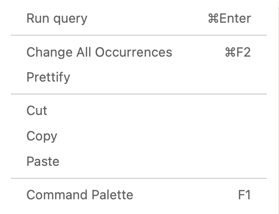
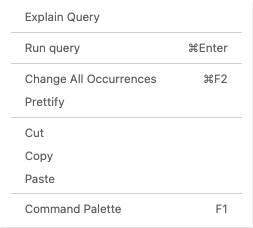
Deployed universe update

diff --git a/starburst-galaxy/working-with-data/query-data/run-queries.html b/starburst-galaxy/working-with-data/query-data/run-queries.html
@@ -1633,10 +1633,17 @@
     <p>The query editor offers a full environment to write and execute <a href="../../sql/index.html">SQL
 statements</a>. You can access all running clusters and their
 configured catalogs.</p>
+      <h2 id="edit-generate-and-explain-queries">
+        
+        
+          Edit, generate, and explain queries <a href="#edit-generate-and-explain-queries" class="titleAnchor">#</a>
+        
+        
+      </h2>
+    
 
-    <p>The query editor is the default landing page when you sign in to your
-Starburst Galaxy account. Access the query editor at any time by clicking
-<strong>Query editor</strong> from the <strong>Query</strong> option of the navigation menu.</p>
+    <p>Access the query editor by clicking <strong>Query editor</strong> from the <strong>Query</strong> option
+of the navigation menu.</p>
 
     <p>As an alternative, select <strong>Query</strong> from the <i class="fas fa-ellipsis-v"></i>
 options menu in the <a href="../../clusters/index.html#cluster-list">list of clusters</a>.</p>
@@ -1705,12 +1712,12 @@ applies to this option.</p>
 streams it in CSV format to a file in the current user’s default downloads
 directory. Use this option when you expect a large result set from a query.
 The amount of data that can be downloaded with this option is
-browser-dependent. Use a <a href="../../clients.html#list-of-clients">different client</a> to
-download very large result sets. The name of the results file is browser
-dependent. Chrome prompts for a filename; Firefox and Safari write to a file
-named <code class="language-plaintext highlighter-rouge">results.csv</code>, appending a digit or a timestamp if the target filename
-exists. While the download proceeds, a few rows of sample results appear in
-the results pane.</p>
+browser-dependent. Use a <a href="../../clients.html#list-of-clients">different
+client</a> to download very large result
+sets. The name of the results file is browser dependent. Chrome prompts for a
+filename; Firefox and Safari write to a file named <code class="language-plaintext highlighter-rouge">results.csv</code>, appending
+a digit or a timestamp if the target filename exists. While the download
+proceeds, a few rows of sample results appear in the results pane.</p>
   </li>
 </ul>
       <h3 id="query-selection">
@@ -1742,9 +1749,9 @@ to select more than one complete SQL statement and run them all in sequence.</p>
 statements. A statement with a missing semicolon prevents running that statement
 and statements below it in the same tab.</p>
 
-<p>When you use a <a href="#pop-up-options-menus">pop up vertical ellipsis menu</a>
-to place a SQL statement on the canvas, the statement is highlighted.
-Highlight-to-select is more forgiving of semicolon placement.</p>
+<p>When you use a <a href="#pop-up-options-menus">pop up options menu</a> to place a SQL
+statement on the canvas, the statement is highlighted. Highlight-to-select is
+more forgiving of semicolon placement.</p>
 
 <p>When text is selected, the <strong>Run</strong> button options change into:</p>
 
@@ -1784,6 +1791,76 @@ cancellation applies to the currently running statement. The execution of all
 following statements in the set is stopped, with status showing <strong>Skipped</strong>.</p>
 
 <p><img src="/assets/img/galaxy/queryedit-multiple-statements-cancel-skipped.png" alt="Query editor multiple statements with cancellation" class="img-fluid img-screenshot" description="" width="px" style="" /></p>
+      <h3 id="generate-sql-from-text">
+        
+        
+          Generate SQL from text <a href="#generate-sql-from-text" class="titleAnchor">#</a>
+        
+        
+      </h3>
+    
+
+<div class="alert alert-info" role="alert">
+  <i class="fa fa-info-circle"></i>
+  <b>Note: </b>
+  This is a <a href="/starburst-galaxy/feature-release-types.html">public preview
+feature</a>. Contact <a href="/starburst-galaxy/global/get-support.html">Starburst
+support</a> with questions or
+feedback.</div>
+
+<p>This feature generates SQL statements using natural language statements. To
+access this feature, select <strong>Generate SQL for this data</strong> from the ( <i class="fa-solid fa-ellipsis-vertical" style="color:var(--fusion-fuchsia);"></i>
+) options menu on the right of a schema, table, or view’s name in the <a href="../explore-data/explore-clusters.html">cluster
+explorer pane</a> of the query editor. This
+opens the <strong>Generate SQL from text</strong> panel, with the selected schema, table, or
+view entered for you in the <strong>Scope</strong> field.</p>
+
+<p><img src="/assets/img/galaxy/queryedit-generate-sql-from-text.png" alt="Generate SQL from text" class="img-fluid img-screenshot" description="" width="px" style="" /></p>
+
+<p>Use the <strong>Scope</strong> drop-down menu to choose a different schema, table, or view
+for your query.</p>
+
+<p>Type a question or request in plain text about the schema, table, or view. Then
+click the <strong>Generate SQL</strong> button to create a matching SQL statement. Click
+<strong>Insert into editor</strong> to paste the generated SQL statement into the query
+editor.</p>
+
+<p>The <strong>Generate SQL from text</strong> feature uses OpenAI’s <strong>GPT-4</strong> technology.
+OpenAI’s technology is not invoked unless you select this menu option. For more
+information, see the <a href="https://platform.openai.com/docs/models/overview" target="_blank">OpenAI
+documentation</a>.</p>
+      <h3 id="query-explanation">
+        
+        
+          Query explanation <a href="#query-explanation" class="titleAnchor">#</a>
+        
+        
+      </h3>
+    
+
+<div class="alert alert-info" role="alert">
+  <i class="fa fa-info-circle"></i>
+  <b>Note: </b>
+  This is a <a href="/starburst-galaxy/feature-release-types.html">public preview
+feature</a>. Contact <a href="/starburst-galaxy/global/get-support.html">Starburst
+support</a> with questions or
+feedback.</div>
+
+<p>The <strong>Query explanation</strong> feature provides a plain text explanation of a SQL
+query. To access this feature, highlight a SQL query or a portion of one, then
+right-click and select <strong>Explain query</strong> from the <a href="#context-menu">context menu</a>.
+This opens the <strong>Query explanation</strong> panel.</p>
+
+<p><img src="/assets/img/galaxy/queryedit-query-explanation.png" alt="Query explanation" class="img-fluid img-screenshot" description="" width="px" style="" /></p>
+
+<p>After receiving the initial explanation, tou can continue to ask for further
+explanations by entering another question in the <strong>Ask for more clarification</strong>
+field.</p>
+
+<p>The <strong>Query explanation</strong> feature uses OpenAI’s <strong>GPT-4</strong> technology. OpenAI’s
+technology is not invoked unless you select this menu option. For more
+information, see the <a href="https://platform.openai.com/docs/models/overview" target="_blank">OpenAI
+documentation</a>.</p>
       <h2 id="editor-pane">
         
         
@@ -1841,20 +1918,21 @@ display as current selections in these drop-down menus. However, there is no
 support for specifying a cluster with a <code class="language-plaintext highlighter-rouge">USE</code> command.</p>
 
 <p><img src="/assets/img/galaxy/queryedit-use-buttons.png" alt="Query location-drop-down-menus" class="img-fluid img-screenshot" description="" width="px" style="" /></p>
-      <h3 id="editor-pane-vertical-ellipsis-menu">
+      <h3 id="editor-pane-options-menu">
         
         
-          Editor pane vertical ellipsis menu <a href="#editor-pane-vertical-ellipsis-menu" class="titleAnchor">#</a>
+          Editor pane options menu <a href="#editor-pane-options-menu" class="titleAnchor">#</a>
         
         
       </h3>
     
 
-<p>To the right of the three Location drop-down menus is a vertical ellipsis ( <i class="fa-solid fa-ellipsis-vertical"></i> ) menu button with the following
-options:</p>
+<p>To the right of the <strong>Run</strong> button is an ( <i class="fa-solid fa-ellipsis-vertical"></i> ) options menu that shows the following options:</p>
 
 <ul>
-  <li><strong>Copy:</strong> to copy the current editor selection to the clipboard.</li>
+  <li><strong>Show SQL docs</strong> opens a pane containing the Starburst Galaxy SQL
+documentation.</li>
+  <li><strong>Copy:</strong> copies the current editor selection to the clipboard.</li>
   <li><strong>Prettify</strong> and <strong>Command palette:</strong> as described next in <a href="#context-menu">Context
 menu</a>.</li>
 </ul>
@@ -1872,13 +1950,16 @@ right-click on a right-hand configured mouse, double tap on a trackpad, and so
 on. The context menu provides:</p>
 
 <ul>
+  <li><strong>Explain query:</strong> to open the <a href="#query-explanation"><strong>Query explanation</strong></a>
+pane containing an explanation of the currently selected query or part of a
+query.</li>
   <li><strong>Run query:</strong> to execute the query that contains the cursor, or execute the
 fully selected query, or execute the set of fully selected queries.</li>
   <li><strong>Change All Occurrences:</strong> to search and replace a string in a long query
 being edited.</li>
-  <li><strong>Cut</strong>, <strong>Copy</strong>, <strong>Paste:</strong> editing commands.</li>
   <li><strong>Prettify:</strong> to format the selected query to add spaces, tabs, and newlines
 where needed.</li>
+  <li><strong>Cut</strong>, <strong>Copy</strong>, <strong>Paste:</strong> editing commands.</li>
   <li>
     <p><strong>Command palette:</strong> opens a dialog from which you can select editing
 commands to run at the current cursor location or run on the current editor
@@ -1914,25 +1995,6 @@ query in the set was cancelled.</li>
   <li><strong>Starting server:</strong> The query processing is waiting for the
 <a href="../../../starburst-galaxy/clusters/index.html#status-and-transitions">cluster</a>
 to complete starting from a suspended state.</li>
-</ul>
-      <h2 id="help-menu">
-        
-        
-          Help menu <a href="#help-menu" class="titleAnchor">#</a>
-        
-        
-      </h2>
-    
-
-<p>The <strong>Help (?)</strong> menu includes the following convenience links for requesting
-assistance:</p>
-
-<ul>
-  <li><strong>Chat with us:</strong> Opens a chat session with Starburst Galaxy Support.</li>
-  <li><strong>Release notes</strong> Opens the Starburst Galaxy <a href="../../get-started/release-notes.html">release
-notes</a>.</li>
-  <li><strong>Documentation:</strong> Opens the <a href="../../../index.html">Starburst Galaxy
-documentation</a>.</li>
 </ul>
 
         <div class="d-lg-none">
@@ -2038,7 +2100,7 @@ feedback();
       </div>
       <div class="col-lg-3 toc-styles d-none d-lg-block">
         <div class="spacer-60 toc-sticky">
-          <ul><li><a href="#run-queries">Run queries</a><ul><li><a href="#run-a-sql-query">Run a SQL query</a></li><li><a href="#run-options">Run options</a></li><li><a href="#query-selection">Query selection</a></li><li><a href="#run-multiple-statements">Run multiple statements</a></li></ul></li><li><a href="#editor-pane">Editor pane</a><ul><li><a href="#auto-completion">Auto-completion</a></li><li><a href="#location-drop-down-menus">Location drop-down menus</a></li><li><a href="#editor-pane-vertical-ellipsis-menu">Editor pane vertical ellipsis menu</a></li><li><a href="#context-menu">Context menu</a></li><li><a href="#query-status">Query status</a></li></ul></li><li><a href="#help-menu">Help menu</a></li></ul></li></ul>
+          <ul><li><a href="#run-queries">Run queries</a><ul><li><a href="#edit-generate-and-explain-queries">Edit, generate, and explain queries</a><ul><li><a href="#run-a-sql-query">Run a SQL query</a></li><li><a href="#run-options">Run options</a></li><li><a href="#query-selection">Query selection</a></li><li><a href="#run-multiple-statements">Run multiple statements</a></li><li><a href="#generate-sql-from-text">Generate SQL from text</a></li><li><a href="#query-explanation">Query explanation</a></li></ul></li><li><a href="#editor-pane">Editor pane</a><ul><li><a href="#auto-completion">Auto-completion</a></li><li><a href="#location-drop-down-menus">Location drop-down menus</a></li><li><a href="#editor-pane-options-menu">Editor pane options menu</a></li><li><a href="#context-menu">Context menu</a></li><li><a href="#query-status">Query status</a></li></ul></li></ul></li></ul>
 
           <div class="feedback-container">
   <div class="feedback-thumbs">

diff --git a/starburst-galaxy/working-with-data/explore-data/explore-clusters.html b/starburst-galaxy/working-with-data/explore-data/explore-clusters.html
@@ -1764,19 +1764,19 @@ to open the cluster explorer page to see details about a specific cluster
 object. For example:</p>
 
 <p><img src="/assets/img/galaxy/queryedit-view-details.png" alt="Click arrow up right from square icon" class="img-fluid img-screenshot" description="" width="px" style="" /></p>
-      <h3 id="pop-up-options-menus">
+      <h3 id="options-menus">
         
         
-          Pop-up options menus <a href="#pop-up-options-menus" class="titleAnchor">#</a>
+          Options menus <a href="#options-menus" class="titleAnchor">#</a>
         
         
       </h3>
     
 
-<p>The cluster explorer displays an options menu ( <i class="fa-solid fa-ellipsis-vertical" style="color:var(--fusion-fuchsia);"></i> ) on the right
-of an object’s name when you select or hold the pointer over its name. The menu
-options apply only to the current object. The following example shows the <i class="fa-solid fa-ellipsis-vertical" style="color:var(--fusion-fuchsia);"></i>
-options menu for a table:</p>
+<p>The cluster explorer displays an ( <i class="fa-solid fa-ellipsis-vertical" style="color:var(--fusion-fuchsia);"></i> ) options menu on the right of an
+object’s name when you select or hold the pointer over its name. The selections
+in the options menu apply only to the current object. The following example
+shows the options menu for a table named “customer”:</p>
 
 <p><img src="/assets/img/galaxy/queryedit-threedots-for-table.png" alt="Three dots for table" class="img-fluid img-screenshot" description="" width="301px" style="" /></p>
 
@@ -1811,8 +1811,9 @@ For example: <strong>“catalog”.”schema”.”tablename”</strong> </div>
   <dl>
     <dt>Select cluster</dt>
     <dd>Sets this cluster as the default for this editor tab, which places the
-        name of this cluster in the <a href="../query-data/run-queries.html#location-drop-down-menus"></a>
-        cluster location drop-down menus<a />.</dd>
+        name of this cluster in the
+        <a href="../query-data/run-queries.html#location-drop-down-menus">
+        location drop-down menus</a>.</dd>
   </dl>
 </td>
 </tr>
@@ -1825,9 +1826,11 @@ For example: <strong>“catalog”.”schema”.”tablename”</strong> </div>
     <dd>Places the quoted catalog name in the clipboard. Example:
         <code>"tpch"</code></dd>
     <dt>Select catalog</dt>
-    <dd>Sets this catalog as the default for this editor tab.</dd>
+    <dd>Sets this catalog as the default for this editor tab, which places
+        this catalog name in the location drop-down menus.</dd>
     <dt>View details</dt>
-    <dd>Opens the explorer page for the catalog in a new browser tab.</dd>
+    <dd>Opens the <a href="../explore-data/catalog-explorer.html">catalog
+        explorer</a> page for this catalog in a new browser tab.</dd>
     <dt>Run discovery</dt>
     <dd>For catalogs in object storage data sources only, opens the catalog
         explorer pane for this catalog, with the <strong>Schema
@@ -1844,10 +1847,17 @@ For example: <strong>“catalog”.”schema”.”tablename”</strong> </div>
     <dt>Copy full path to clipboard</dt>
     <dd>Places the quoted path to this schema in the clipboard. Example:
         <code>"tpch"."sf1000"</code></dd>
+    <dt>Generate SQL for this data</dt>
+    <dd>Opens the <a href="../query-data/run-queries.html#generate-sql-from-text">
+        Generate SQL from text</a> pane.</dd>
     <dt>Select schema</dt>
     <dd>Sets this schema and its catalog as the defaults for this editor tab.</dd>
+    <dt>Enter SHOW CREATE SCHEMA</dt>
+    <dd>Places the statement <code>SHOW CREATE SCHEMA quoted-schema-path;</code>
+        in the first available editor pane and selects the line.</dd>
     <dt>View details</dt>
-    <dd>Opens the explorer page for the schema in a new browser tab.</dd>
+    <dd>Opens the <a href="../explore-data/catalog-explorer.html">catalog
+        explorer</a> page for this schema in a new browser tab.</dd>
   </dl>
 </td>
 </tr>
@@ -1859,6 +1869,9 @@ For example: <strong>“catalog”.”schema”.”tablename”</strong> </div>
     <dt>Copy full path to clipboard</dt>
     <dd>Places the quoted path to this table in the clipboard. Example:
         <code>"tpch"."sf1000"."customer"</code></dd>
+    <dt>Generate SQL for this data</dt>
+    <dd>Opens the <a href="../query-data/run-queries.html#generate-sql-from-text">
+        Generate SQL from text</a> pane.</dd>
     <dt>Enter SELECT * from tablename LIMIT 10;</dt>
     <dd>Places the statement <code>SELECT * from quoted-table-path LIMIT 10</code>
         in the first available line in the editor pane, and selects the line.</dd>
@@ -1868,9 +1881,11 @@ For example: <strong>“catalog”.”schema”.”tablename”</strong> </div>
     <dt>Enter SHOW CREATE TABLE tablename</dt>
     <dd>Places the statement <code>SHOW CREATE TABLE quoted-table-path</code> in
         the first available editor line and selects the line. See <b>
-        <a href="#examine-table-parameters">Examine table parameters</a></b> for more information.</dd>
+        <a href="#examine-table-parameters">Examine table parameters</a></b>
+        for more information.</dd>
     <dt>View details</dt>
-    <dd>Opens the explorer page for the table in a new browser tab.</dd>
+    <dd>Opens the <a href="../explore-data/catalog-explorer.html">catalog
+        explorer</a> page for this table in a new browser tab.</dd>
   </dl>
 </td>
 </tr>
@@ -1887,8 +1902,13 @@ For example: <strong>“catalog”.”schema”.”tablename”</strong> </div>
     <dt>Copy name to clipboard</dt>
     <dd>Places the quoted column name in the clipboard. Example:
         <code>"custkey"</code></dd>
+    <dt>Enter SELECT columnname from tablename LIMIT 10;</dt>
+    <dd>Places the statement <code>SELECT columnname from quoted-table-path LIMIT 10</code>
+        in the first available line in the editor pane, and selects the line.</dd>
     <dt>View details</dt>
-    <dd>Opens the explorer page for the column in a new browser tab.</dd>
+    <dd>Opens the <a href="../explore-data/catalog-explorer.html">catalog
+        explorer</a> page for the table that contains this column in a new
+        browser tab.</dd>
   </dl>
 </td>
 </tr>
@@ -2026,7 +2046,7 @@ feedback();
       </div>
       <div class="col-lg-3 toc-styles d-none d-lg-block">
         <div class="spacer-60 toc-sticky">
-          <ul><li><a href="#explore-clusters">Explore clusters</a><ul><li><a href="#cluster-list">Cluster list</a></li><li><a href="#cluster-explorer-pane">Cluster explorer pane</a><ul><li><a href="#quick-info-dialogs">Quick info dialogs</a></li><li><a href="#pop-up-options-menus">Pop-up options menus</a></li><li><a href="#examine-table-parameters">Examine table parameters</a></li></ul></li></ul></li></ul>
+          <ul><li><a href="#explore-clusters">Explore clusters</a><ul><li><a href="#cluster-list">Cluster list</a></li><li><a href="#cluster-explorer-pane">Cluster explorer pane</a><ul><li><a href="#quick-info-dialogs">Quick info dialogs</a></li><li><a href="#options-menus">Options menus</a></li><li><a href="#examine-table-parameters">Examine table parameters</a></li></ul></li></ul></li></ul>
 
           <div class="feedback-container">
   <div class="feedback-thumbs">
